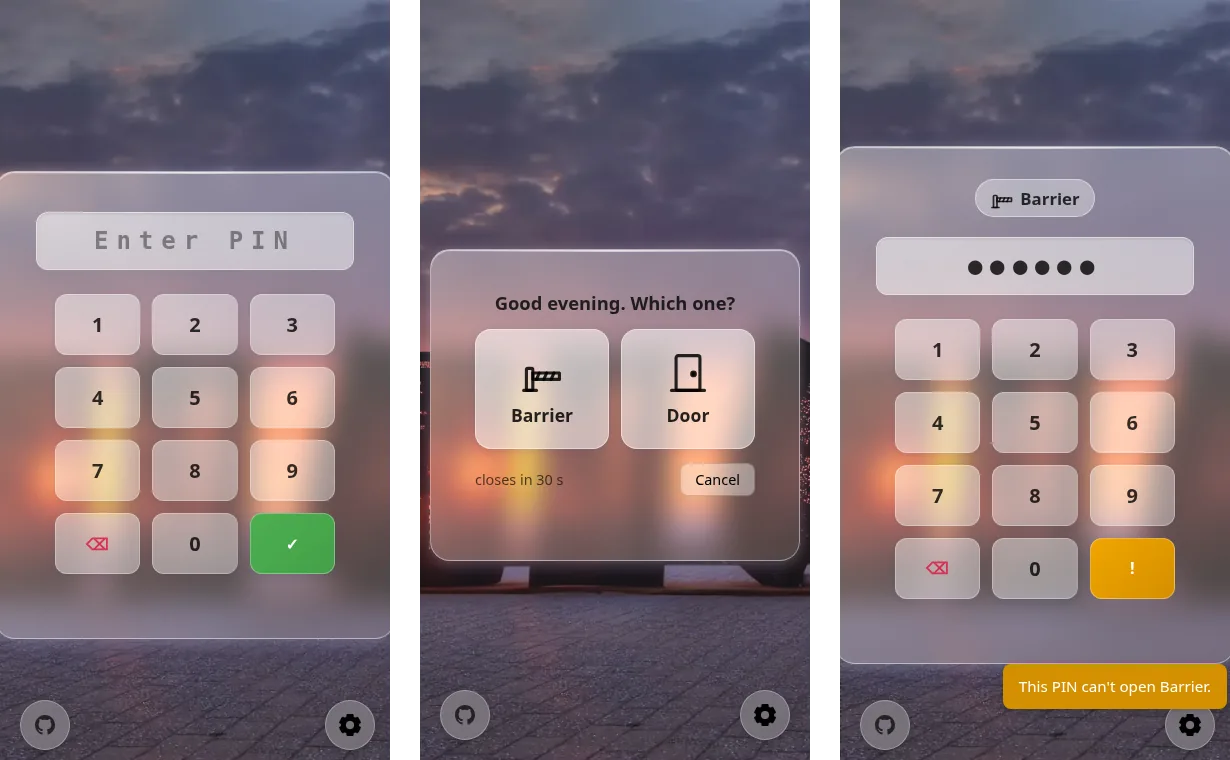
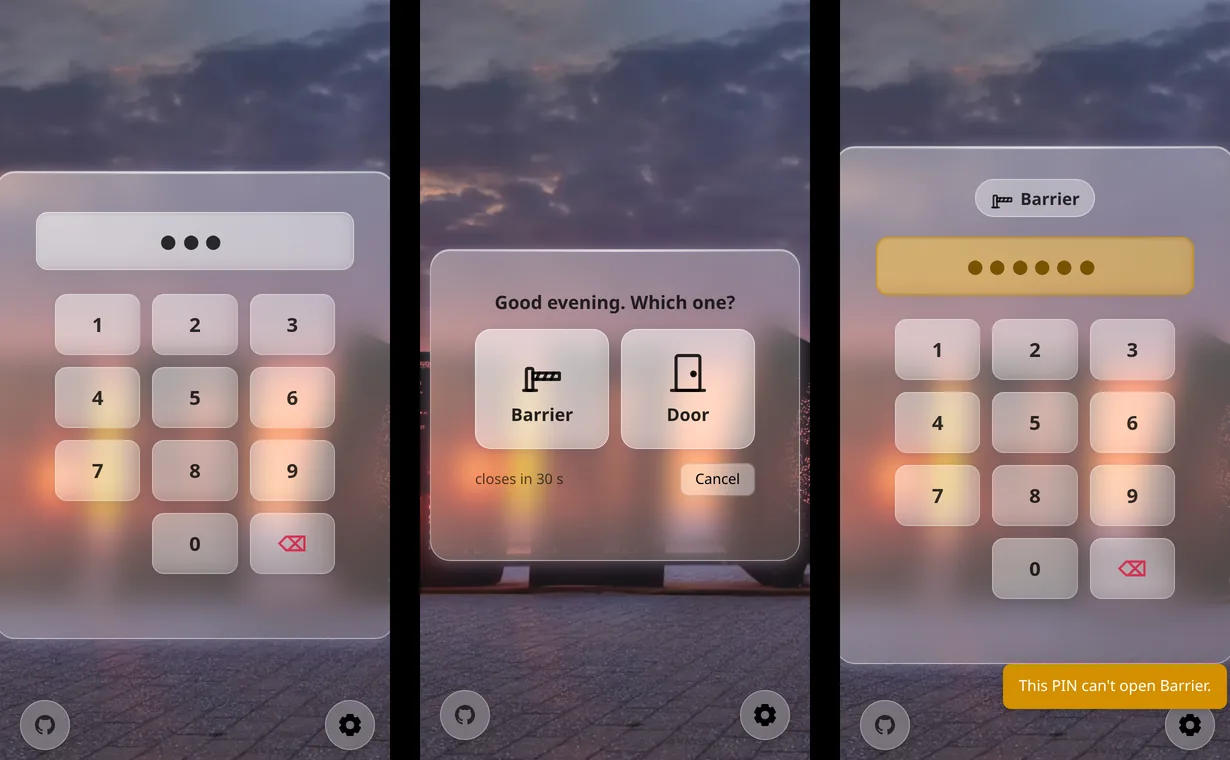
Keypad: no double-tap zoom, and a phone's bottom row instead of the OK key
- Two quick taps on the same key (a PIN such as 1135) made Safari zoom in,
  and could lose the second digit. Every element now has touch-action:
  manipulation, so taps are key presses; pinch-zoom still works.
- The ✓ key is gone: the PIN already goes through once you stop typing, so
  nobody ever reached it. The bottom row is now "  0 ⌫", as on a phone's lock
  screen, with ⌫ under the thumb.
- The result shows in the PIN box: green when a door opens, red with a shake
  for a wrong PIN, amber for a PIN that is right but not for now.
- Touch screens: a tapped key no longer stays enlarged (hover is for a mouse,
  the focus ring for the keyboard), Safari shows the pressed key, no grey tap
  box, no text selected by fast taps, and the frosted glass gets Safari's
  -webkit- prefix.
- The PIN box and keypad styles moved from inline to keypad.css.
- README, DOCS and the keypad screenshot describe the new keypad. 3.1.1.

diff --git a/dooropener/static/keypad.css b/dooropener/static/keypad.css
@@ -1,3 +1,12 @@
+/* Quick taps are key presses, never a zoom. Otherwise two quick taps on one key
+   (a PIN such as 1135) make Safari zoom in, and can lose the second digit.
+   "manipulation" still allows pinch-zoom and scrolling. It is on every element
+   because touch-action is not inherited, and Safari does not reliably carry a
+   page-wide value down to the element under the finger. */
+* {
+    touch-action: manipulation;
+}
+
 body {
     font-family: 'Arial', sans-serif;
     display: flex;
@@ -49,6 +58,9 @@ body::before {
     border: 1px solid rgba(255, 255, 255, 0.4);
     position: relative;
     overflow: visible;
+    /* Fast taps select no text */
+    -webkit-user-select: none;
+    user-select: none;
 }
 
 .container::before {
@@ -299,7 +311,68 @@ body #toast-container {
     }
 }
 
-/* Keypad button visual feedback */
+/* The PIN box: dots while typing, then the result for a moment */
+.pin-display {
+    display: flex;
+    align-items: center;
+    justify-content: center;
+    width: 280px;
+    min-height: 28px;
+    margin: 0 auto 1.5rem;
+    padding: 14px 18px;
+    border-radius: 12px;
+    border: 1px solid rgba(255, 255, 255, 0.4);
+    background: rgba(255, 255, 255, 0.3);
+    -webkit-backdrop-filter: blur(10px);
+    backdrop-filter: blur(10px);
+    box-shadow: inset 0 1px 3px rgba(0, 0, 0, 0.1);
+    color: rgba(0, 0, 0, 0.8);
+    font-family: 'Courier New', monospace;
+    font-size: 24px;
+    font-weight: 600;
+    letter-spacing: 8px;
+    text-align: center;
+    transition: background 0.2s, border-color 0.2s, color 0.2s;
+}
+
+.pin-placeholder {
+    color: rgba(0, 0, 0, 0.4);
+}
+
+.pin-display.is-granted {
+    background: rgba(76, 175, 80, 0.4);
+    border-color: rgba(56, 142, 60, 0.9);
+    color: #1b5e20;
+}
+
+.pin-display.is-denied {
+    background: rgba(220, 53, 69, 0.3);
+    border-color: rgba(200, 35, 51, 0.9);
+    color: #a71d2a;
+    animation: shake 0.4s cubic-bezier(.36, .07, .19, .97) both;
+}
+
+.pin-display.is-refused {
+    background: rgba(240, 165, 0, 0.4);
+    border-color: rgba(212, 143, 0, 0.95);
+    color: #7a5200;
+}
+
+@media (prefers-reduced-motion: reduce) {
+    .pin-display.is-denied {
+        animation: none;
+    }
+}
+
+/* The keypad, laid out like a phone's: no OK key, the PIN goes by itself */
+.keypad {
+    display: grid;
+    grid-template-columns: repeat(3, 1fr);
+    gap: 12px;
+    width: 280px;
+    margin: 0 auto 1.5rem;
+}
+
 .keypad-btn {
     padding: 16px;
     background: rgba(255, 255, 255, 0.2);
@@ -314,18 +387,30 @@ body #toast-container {
         color 0.18s,
         box-shadow 0.18s,
         transform 0.12s;
+    -webkit-backdrop-filter: blur(10px);
     backdrop-filter: blur(10px);
     box-shadow: 0 2px 8px 0 rgba(31, 38, 135, 0.08);
     outline: none;
-    user-select: none;
+    /* The key's own pressed look, instead of the browser's grey tap box */
+    -webkit-tap-highlight-color: transparent;
 }
 
-.keypad-btn:hover,
-.keypad-btn:focus {
+/* Hover only where there is a mouse: on a touch screen it would stick to the
+   last key tapped. Focus shows for the keyboard only, for the same reason. */
+@media (hover: hover) {
+    .keypad-btn:hover {
+        background: rgba(255, 255, 255, 0.38);
+        color: #1976d2;
+        box-shadow: 0 4px 16px 0 rgba(76, 175, 255, 0.20);
+        transform: scale(1.08);
+        z-index: 2;
+    }
+}
+
+.keypad-btn:focus-visible {
     background: rgba(255, 255, 255, 0.38);
     color: #1976d2;
-    box-shadow: 0 4px 16px 0 rgba(76, 175, 255, 0.20);
-    transform: scale(1.08);
+    box-shadow: 0 0 0 2px #1976d2;
     z-index: 2;
 }
 
@@ -336,26 +421,13 @@ body #toast-container {
     transform: scale(0.97);
 }
 
+/* 0 in the middle column and ⌫ to its right, as on a phone */
+.keypad-btn.zero-btn {
+    grid-column: 2;
+}
+
 .keypad-btn.clear-btn {
     color: rgba(220, 20, 60, 0.8);
-    font-size: 16px;
-}
-
-.keypad-btn.submit-btn {
-    background: linear-gradient(135deg, #4CAF50, #45a049);
-    color: white;
-    font-size: 16px;
-}
-
-.keypad-btn.submit-btn:hover,
-.keypad-btn.submit-btn:focus {
-    background: linear-gradient(135deg, #45a049, #388e3c);
-    color: #fff;
-}
-
-.keypad-btn.submit-btn:active {
-    background: linear-gradient(135deg, #388e3c, #2e7d32);
-    color: #fff;
 }
 
 /* Gear icon spin and label */
@@ -539,12 +611,14 @@ body #toast-container {
     border-radius: 16px;
     border: 1px solid rgba(255, 255, 255, 0.45);
     background: rgba(255, 255, 255, 0.35);
+    -webkit-backdrop-filter: blur(10px);
     backdrop-filter: blur(10px);
     color: rgba(0, 0, 0, 0.85);
     font: inherit;
     cursor: pointer;
     box-shadow: 0 2px 10px rgba(31, 38, 135, 0.12);
     transition: transform 0.12s, background 0.18s;
+    -webkit-tap-highlight-color: transparent;
 }
 
 .tile:active {

diff --git a/dooropener/static/keypad.js b/dooropener/static/keypad.js
@@ -10,6 +10,8 @@ let isSubmitting = false;
 let autoSubmitTimer = null;
 let blockCountdownTimer = null;
 let choiceTimer = null;
+let resultTimer = null;
+const RESULT_MS = 1200; // how long a result stays in the PIN box
 
 // By the phone's own clock: the keypad never says whose PIN it was.
 function greeting() {
@@ -38,8 +40,6 @@ document.querySelectorAll('.keypad-btn').forEach(btn => {
         addDigit(digit);
       } else if (action === 'clear') {
         clearPin();
-      } else if (action === 'submit') {
-        openDoor();
       }
     });
 });
@@ -89,7 +89,7 @@ function clearPin() {
 function updatePinDisplay() {
     const display = document.getElementById('pinDisplay');
     if (currentPin.length === 0) {
-        display.innerHTML = '<span style="color: rgba(0,0,0,0.4);">Enter PIN</span>';
+        display.innerHTML = '<span class="pin-placeholder">Enter PIN</span>';
     } else {
         let html = '';
         for (let i = 0; i < currentPin.length; i++) {
@@ -132,24 +132,29 @@ function openDoor() {
             showStatus('Error: Could not connect to server', 'error');
         })
         .finally(() => {
-            // Reset button and clear PIN after attempt
+            // Clear the PIN once its result has been seen
             setTimeout(() => {
-                resetSubmitButton();
                 currentPin = '';
                 updatePinDisplay();
                 isSubmitting = false;
-            }, 1200);
+            }, RESULT_MS);
         });
 }
 
-function resetSubmitButton() {
-    const submitBtn = document.getElementById('submitBtn');
-    submitBtn.style.background = 'linear-gradient(135deg, #4CAF50, #45a049)';
-    submitBtn.textContent = '✓';
+// The result shows in the PIN box for a moment, as on a phone's lock screen:
+// green when a door opens, red with a shake for a wrong PIN, amber for a PIN
+// that is right but not for now.
+function showResult(state) {
+    const display = document.getElementById('pinDisplay');
+    display.classList.remove('is-granted', 'is-denied', 'is-refused');
+    display.classList.add('is-' + state);
+    clearTimeout(resultTimer);
+    resultTimer = setTimeout(() => display.classList.remove('is-' + state), RESULT_MS);
 }
 
 function celebrate(message) {
     showStatus(greeting() + ' · ' + message, 'success');
+    showResult('granted');
     playSuccessSound();
     if (window.navigator.vibrate) {
         // Fancy "ta-da" vibration pattern: short-long-short with crescendo
@@ -160,10 +165,7 @@ function celebrate(message) {
 
 function deny(message) {
     showStatus('Error: ' + message, 'error');
-    // Change button to red cross on failure
-    const submitBtn = document.getElementById('submitBtn');
-    submitBtn.style.background = 'linear-gradient(135deg, #dc3545, #c82333)';
-    submitBtn.textContent = '✗';
+    showResult('denied');
     playFailureSound();
     showAccessDeniedPopup();
     if (window.navigator.vibrate) {
@@ -175,9 +177,7 @@ function deny(message) {
 // The PIN is right but not for now (its owner's phone gets told why): calm, not an alarm.
 function showRefused(message) {
     showStatus(message, 'refused', false, 7000);
-    const submitBtn = document.getElementById('submitBtn');
-    submitBtn.style.background = 'linear-gradient(135deg, #f0a500, #d48f00)';
-    submitBtn.textContent = '!';
+    showResult('refused');
     if (window.navigator.vibrate) window.navigator.vibrate(120);
 }
 
@@ -245,8 +245,7 @@ function chooseDoor(pass, doorId, tiles) {
         .catch(() => {
             closeChoice();
             showStatus('Error: Could not connect to server', 'error');
-        })
-        .finally(() => setTimeout(resetSubmitButton, 1200));
+        });
 }
 
 function showStatus(message, type, persistent, duration) {
@@ -488,6 +487,10 @@ document.addEventListener('DOMContentLoaded', function () {
         });
         if (!document.hidden) startBatteryPolling();
     }
+
+    // Safari on iPhone and iPad shows a key as pressed (:active) only when the
+    // page listens for touches. Passive, so it never holds up a tap or a scroll.
+    document.addEventListener('touchstart', () => {}, { passive: true });
 
     // Initialize PIN display
     updatePinDisplay();

diff --git a/dooropener/templates/index.html b/dooropener/templates/index.html
@@ -37,10 +37,9 @@
             style="display:none; position:absolute; top:-60px; left:50%; transform:translateX(-50%); z-index:10; background:rgba(0,0,0,0.95); color:#00ff88; font-family:'Courier New',monospace; font-size:2rem; padding:18px 36px; border-radius:14px; box-shadow:0 8px 32px 0 rgba(0, 255, 136, 0.18),0 2px 16px 0 rgba(0,0,0,0.3); border:2px solid #00ff88; letter-spacing:2px; text-shadow:0 0 8px #00ff88,0 0 2px #00ff88; pointer-events:none; opacity:0; transition:opacity 0.35s, top 0.35s;">
             ACCESS GRANTED
         </div>
-        <!-- PIN Display -->
-        <div id="pinDisplay"
-            style="width: 280px; margin: 0 auto 1.5rem auto; padding: 14px 18px; font-size: 24px; border-radius: 12px; border: 1px solid rgba(255,255,255,0.4); background: rgba(255,255,255,0.3); backdrop-filter: blur(10px); color: rgba(0,0,0,0.8); font-weight: 600; box-shadow: inset 0 1px 3px rgba(0,0,0,0.1); text-align: center; min-height: 28px; letter-spacing: 8px; font-family: 'Courier New', monospace; display: flex; align-items: center; justify-content: center;">
-            Enter PIN
+        <!-- PIN display: dots while typing, then the result for a moment -->
+        <div id="pinDisplay" class="pin-display">
+            <span class="pin-placeholder">Enter PIN</span>
         </div>
 
         {% if no_doors %}
@@ -57,9 +56,9 @@
             </div>
         </div>
 
-        <!-- Keypad -->
-        <div id="keypad" class="keypad"
-            style="display: grid; grid-template-columns: repeat(3, 1fr); gap: 12px; margin-bottom: 1.5rem; width: 280px; margin-left: auto; margin-right: auto;">
+        <!-- Keypad, laid out like a phone's: no OK key, the PIN goes by itself
+             once the typing stops -->
+        <div id="keypad" class="keypad">
             <button class="keypad-btn" data-digit="1">1</button>
             <button class="keypad-btn" data-digit="2">2</button>
             <button class="keypad-btn" data-digit="3">3</button>
@@ -69,9 +68,8 @@
             <button class="keypad-btn" data-digit="7">7</button>
             <button class="keypad-btn" data-digit="8">8</button>
             <button class="keypad-btn" data-digit="9">9</button>
-            <button class="keypad-btn clear-btn" data-action="clear">⌫</button>
-            <button class="keypad-btn" data-digit="0">0</button>
-            <button id="submitBtn" class="keypad-btn submit-btn" data-action="submit">✓</button>
+            <button class="keypad-btn zero-btn" data-digit="0">0</button>
+            <button class="keypad-btn clear-btn" data-action="clear" aria-label="Delete">⌫</button>
         </div>
 
     </div>

diff --git a/README.md b/README.md
@@ -38,8 +38,9 @@ alert.
 ## What it does
 
 - **A keypad that works on any phone.** No app to install. It can sit on the
-  home screen like one, and a PIN goes through after a short pause, without
-  pressing ✓.
+  home screen like one. It is laid out like a phone's lock screen, with no OK
+  key: the PIN goes through once you stop typing. Quick taps on the same key
+  never zoom the page, so one thumb is enough.
 - **Several doors.** A door, a barrier, a gate or a garage door, each opened by
   a Home Assistant entity: `button`, `switch`, `lock`, `input_boolean`, `cover`
   or `script`.
@@ -428,7 +429,9 @@ The host name in `ha_url` must be one of the names on that certificate.
 
 ### The keypad
 
-Enter a PIN.
+Enter a PIN. It goes through by itself once you stop typing (on a computer,
+Enter sends it at once), and the PIN box shows the result: green when a door
+opens, red for a wrong PIN, amber for a PIN that is right but not for now.
 
 - **One door:** if the PIN may open one door, that door opens.
 - **Several doors:** if it may open several, a tile for each appears for 30

diff --git a/dooropener/DOCS.md b/dooropener/DOCS.md
@@ -97,10 +97,11 @@ the panel there (the gear icon on the keypad).
 
 ### The keypad, and shortcut links
 
-Enter a PIN on the keypad. A PIN that may open one door opens it at once; one
-that may open several shows a tile for each, for 30 seconds: tap the one to
-open. Each PIN entry opens one door, so the barrier and then the door means
-entering the PIN twice.
+Enter a PIN on the keypad: it goes through by itself once you stop typing, and
+the PIN box turns green, red or amber with the result. A PIN that may open one
+door opens it at once; one that may open several shows a tile for each, for 30
+seconds: tap the one to open. Each PIN entry opens one door, so the barrier and
+then the door means entering the PIN twice.
 
 Every door also has a shortcut link: `/barrier`, or `/barrier+door` for two.
 The link is the same for everyone (put it on a QR code at the barrier, or on
